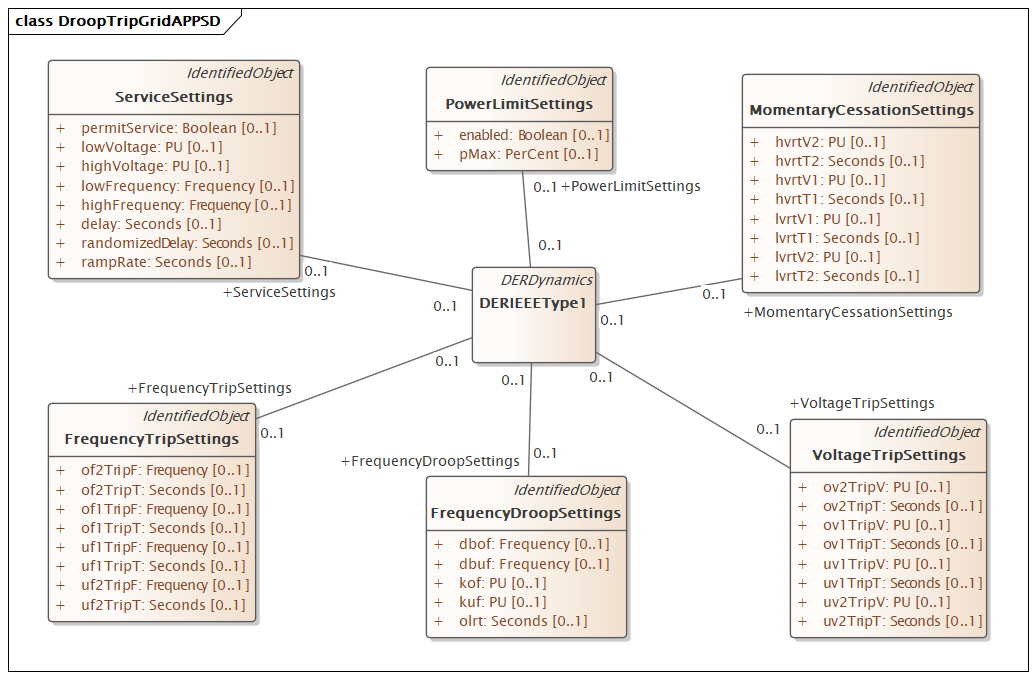
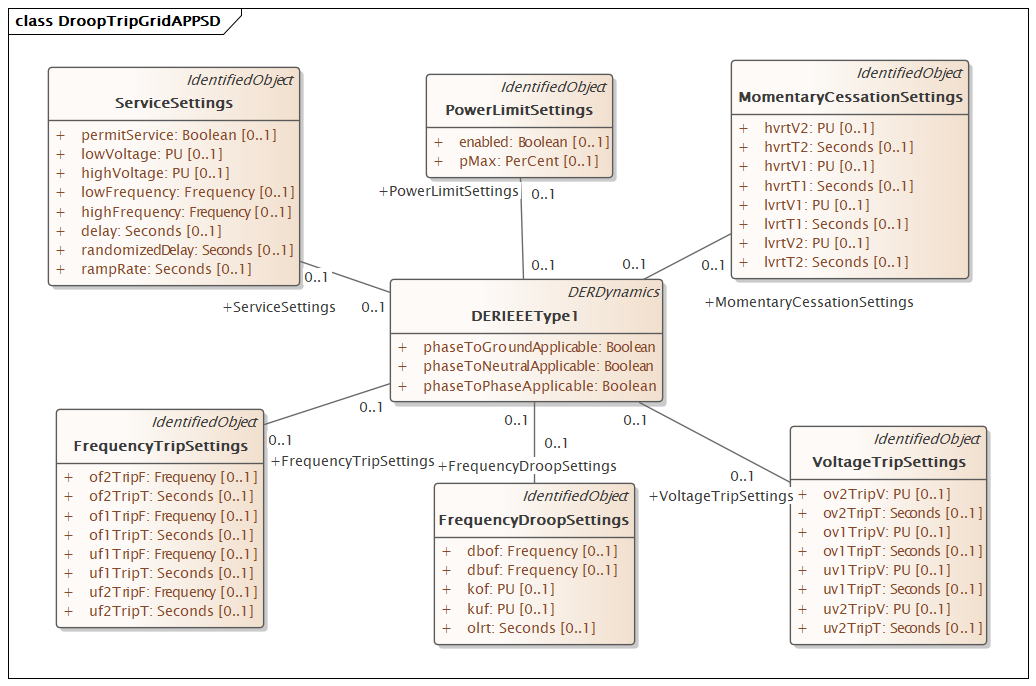
updated the DER 302 class diagrams

Changed region(s): [[0.0, 0.0309, 0.9575, 0.9588], [0.8031, 0.866, 0.9266, 0.9278]]

diff --git a/docs/source/developer_resources/CDPSM.rst b/docs/source/developer_resources/CDPSM.rst
@@ -340,7 +340,7 @@ nameplate and rating information in the network model.  Preliminary values
 for these attributes would be available from an application to 
 interconnect DER, and then updated as the project moves through 
 commissioning to operational status.  :red:`To be determined whether 
-DERDyanmics can have cardinality 0..* as shown, or 0..1 like other dynamic 
+DERDynamics can have cardinality 0..* as shown, or 0..1 like other dynamic 
 functions in 302.` 
 
 |imgcim302vq|
@@ -368,8 +368,11 @@ which would be a Terminal associated to the PowerElectronicsConnection,
 SynchronousMachine, or AsynchronousMachine shown at the top of Figure 15. Where this
 is not the case, e.g., the DER responds to voltage and frequency on the other
 side of a PowerTransformer, the RemoteInputSignal mechanism can be used as shown
-in this figure. For a three-phase DER, note that three individual phase voltages and
-one frequency signal would be needed.
+in this figure. In GridAPPS-D, only the voltage signal is relevant. IEEE Std. 1547-2018
+states that voltage functions are based on the average, minimum, or maximum of all applicable
+voltages. The applicable voltages depend on how the connection appears to the grid,
+as conveyed in the attributes of DERIEEEType1. Hence, the RemoteInputSignal.phase
+attribute is not used. Instead, use all applicable voltages from the associated Terminal.
 
 Extensions for Houses and Faults
 ~~~~~~~~~~~~~~~~~~~~~~~~~~~~~~~~
